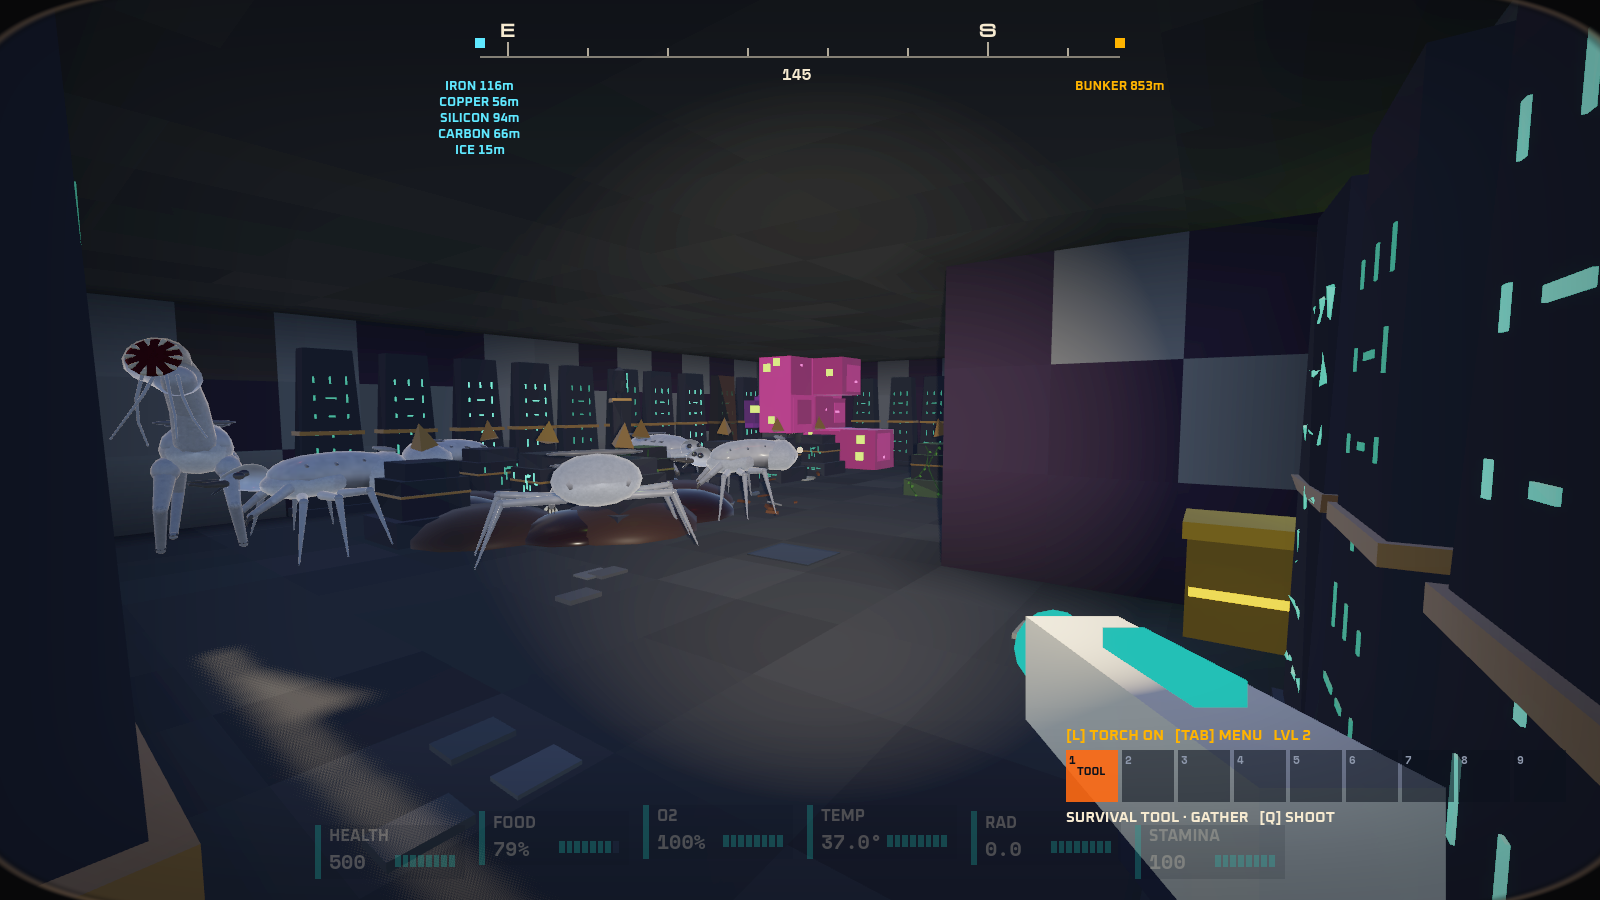
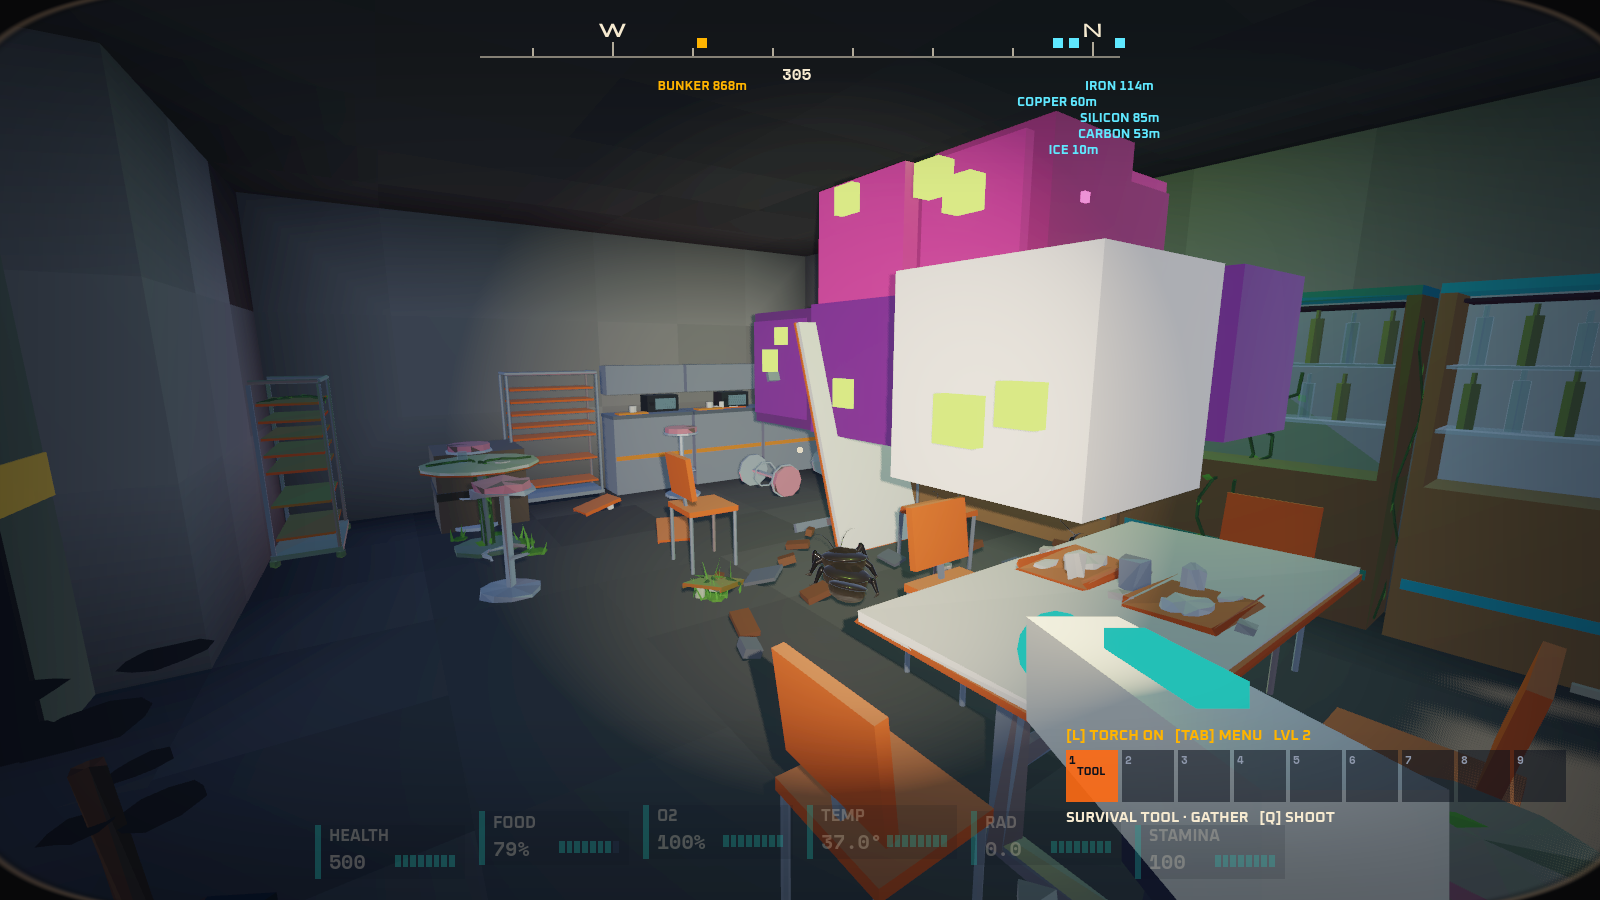
Place screenshots, the staged views, README: places, doors, creature bodies, towns

diff --git a/prototypes/slice/tests/Staging.Places.cs b/prototypes/slice/tests/Staging.Places.cs
@@ -60,7 +60,7 @@ public sealed partial class Staging
         PlaceRoom room = p.Memory.Rooms.Values.OrderByDescending(r => (r.Room.RoomId == want ? 1000 : 0) + r.Plan.Placements.Count - MathF.Abs(r.Corner.Y) * 2f).First();
         var size = new Vector3(room.Room.Width, 0f, room.Room.Depth);
         Vector3 corner = p.ToWorld(new Vector3(room.Corner.X, room.Corner.Y, room.Corner.Z));
-        return (room, corner + new Vector3(0.35f, 1.55f, 0.35f), corner + size * 0.75f + Vector3.Up * 0.6f);
+        return (room, corner + size + new Vector3(-0.5f, 1.55f, -0.5f), corner + size * 0.25f + Vector3.Up * 0.6f);
     }
 
     /// <summary>A dressed room, its age and state on it.</summary>
@@ -90,15 +90,24 @@ public sealed partial class Staging
         DeepSite deep = _game.Zone.Wildlife.Sites.First(s => s.Sim == p.Memory.Fauna.Sim);
         var nav = p.Nav();
         var open = nav.Reachable(p.Inst.Layout.EntranceCell);
-        var hunter = deep.Sim.Creatures.Where(c => !c.Dead && c.Species.Role == Wildlife.DeepRole.Ambusher && c.Species.Tells.Length > 0).OrderBy(c => c.Position.Y < -6f ? 1 : 0).First();
+        var hunter = deep.Sim.Creatures.Where(c => !c.Dead && c.Species.Role == Wildlife.DeepRole.Ambusher && c.Species.Tells.Length > 0)
+            .OrderBy(c => c.Position.DistanceTo(new Vector3(p.Inst.Layout.EntranceCell.X, p.Inst.Layout.EntranceCell.Y, p.Inst.Layout.EntranceCell.Z)) + Mathf.Abs(c.Position.Y) * 3f).First();
         var cell = new Int3(Mathf.FloorToInt(hunter.Position.X), Mathf.FloorToInt(hunter.Position.Y), Mathf.FloorToInt(hunter.Position.Z));
-        Int3 stand = open.Where(c => new Vector2(c.X - cell.X, c.Z - cell.Z).Length() is > 3f and < 7f && Mathf.Abs(c.Y - cell.Y) <= 3).OrderBy(c => Mathf.Abs(new Vector2(c.X - cell.X, c.Z - cell.Z).Length() - 4.5f)).First();
+        var space = _game.Zone.GetWorld3D().DirectSpaceState;
+        bool Sees(Int3 c)
+        {
+            Vector3 eye = PlaceWalk.Feet(p, c) + Vector3.Up * 1.6f, at = deep.World(hunter.Position) + Vector3.Up * 0.3f;
+            return space.IntersectRay(PhysicsRayQueryParameters3D.Create(eye, at, GalHack.Physics.Layers.World)).Count == 0;
+        }
+        Int3 stand = open.Where(c => new Vector2(c.X - cell.X, c.Z - cell.Z).Length() is > 2f and < 8f && Mathf.Abs(c.Y - cell.Y) <= 3)
+            .OrderBy(c => Sees(c) ? 0 : 1).ThenBy(c => Mathf.Abs(new Vector2(c.X - cell.X, c.Z - cell.Z).Length() - 3f)).First();
+        GD.Print($"hunter: a {hunter.Species.CommonName}, tells {string.Join(" ", hunter.Species.Tells)}, notice {hunter.Species.NoticeRadius:F0} m, at {cell}; standing at {stand}, sees it {Sees(stand)}");
         _game.Survivor.PlaceOutside(PlaceWalk.Feet(p, stand).ToNumerics());
         foreach (int x in _drive.Wait(30)) yield return x;
         _game.Torch.Visible = true;
         foreach (int x in _drive.LookAt(deep.World(hunter.Position) + Vector3.Up * 0.8f, 20)) yield return x;
         Wildlife.TellEvent? told = null;
-        deep.Told += e => { if (e.Target == deep.Player && e.Kind is Wildlife.TellKind.Dust or Wildlife.TellKind.Shadow or Wildlife.TellKind.Rattle or Wildlife.TellKind.Thump) told = e; };
+        deep.Told += e => { if (e.Target == deep.Player) told ??= e; };
         // STAGING: only this hunter wakes; the rest of the place is taken out of the shot.
         foreach (var c in deep.Sim.Creatures.Where(c => c != hunter)) deep.Sim.Remove(c);
         _game.Zone.Wildlife.Frozen = false;
@@ -108,11 +117,16 @@ public sealed partial class Staging
             yield return 0;
         }
         if (told is Wildlife.TellEvent t)
-            for (int i = 0; i < 16; i++)
+        {
+            GD.Print($"tell: {t.Kind} from a {t.Creature?.Species.CommonName}, {deep.World(t.Position).DistanceTo(_game.Survivor.WorldFeet):F1} m off");
+            Vector3 aim = t.Below.LengthSquared() > 0.01f ? (t.Position + t.Below) * 0.5f : t.Position;
+            for (int i = 0; i < 14; i++)
             {
-                _drive.Face(deep.World(t.Position));
+                _drive.Face(deep.World(aim));
                 yield return 0;
             }
+        }
+        else GD.Print("no tell came");
         _game.Zone.Wildlife.Frozen = true;
     }
 
@@ -143,8 +157,26 @@ public sealed partial class Staging
         foreach (int x in GoTo(site, Gate(site) + Vector3.Up * 0.1f)) yield return x;
         Place p = _game.Places.PlaceOf(site);
         foreach (int x in _drive.Wait(600)) yield return x;
-        Vector3 middle = p.ToWorld(new Vector3(p.Memory.Town.Data.AreaCenter.X, 1.2f, p.Memory.Town.Data.AreaCenter.Z));
-        foreach (int x in _drive.LookAt(middle, 20)) yield return x;
+        // A street with people on it: the one with most others near, seen from a few metres off along the way they stand.
+        var people = p.Memory.Town.People.Where(q => !q.Indoors && !q.Dead && !p.Roofed(p.ToWorld(q.Pos) + Vector3.Up * 0.1f)).ToList();
+        var busy = people.Where(q => p.Inst.Layout.Modules.Any(m => m.Kind == ModuleKind.Outdoor) || true).OrderByDescending(q => people.Count(o => o.Pos.DistanceTo(q.Pos) < 12f)).First();
+        Vector3 at = p.ToWorld(busy.Pos);
+        var space = _game.Zone.GetWorld3D().DirectSpaceState;
+        int Seen(Vector3 eye) => people.Count(o => space.IntersectRay(PhysicsRayQueryParameters3D.Create(eye, p.ToWorld(o.Pos) + Vector3.Up * 1.2f, GalHack.Physics.Layers.World | GalHack.Physics.Layers.Hull)).Count == 0 && p.ToWorld(o.Pos).DistanceTo(eye) < 30f);
+        Vector3 best = at + Vector3.Back * 6f;
+        int most = -1;
+        for (float r = 5f; r <= 15f; r += 2.5f)
+            for (int a = 0; a < 16; a++)
+            {
+                Vector3 c = at + new Vector3(MathF.Cos(a * MathF.Tau / 16f), 0f, MathF.Sin(a * MathF.Tau / 16f)) * r;
+                c.Y = _game.Zone.GroundAt(c.X, c.Z).Y + 1.65f;
+                int n = Seen(c);
+                if (n > most) { most = n; best = c; }
+            }
+        _game.Visor.Visible = false;
+        _game.FixedCamera = new Transform3D(Basis.LookingAt(at + Vector3.Up * 1.1f - best, Vector3.Up), best);
+        GD.Print($"seeing {most} of {people.Count} people");
+        foreach (int x in _drive.Wait(30)) yield return x;
     }
 
     /// <summary>Salvaging a wreck: the tool at work on its hull, a piece coming away.</summary>
@@ -153,7 +185,7 @@ public sealed partial class Staging
         _game.Zone.Sky.TimeOfDay = Num("time", 0.36);
         _game.Zone.Weather.Sim.Snap(WeatherKind.Clear);
         Vector3 from = _game.Survivor.WorldFeet;
-        PoiSite site = _game.Zone.Planet.Pois.Where(s => s.Family.Tier == PoiTier.Wreck).OrderBy(s => _game.Places.DistanceTo(s, from)).First();
+        PoiSite site = _game.Zone.Planet.Pois.Where(s => s.Family.Tier == PoiTier.Wreck || s.Family.Tags.Contains("wreck") || s.Family.Tags.Contains("ship") || s.Family.Id == "abandoned_spaceport").OrderBy(s => _game.Places.DistanceTo(s, from)).First();
         GD.Print($"salvaging {site.Name}");
         Vector3 gate = Gate(site);
         foreach (int x in GoTo(site, gate + Vector3.Up * 0.2f)) yield return x;

diff --git a/prototypes/slice/tests/PlaceTest.cs b/prototypes/slice/tests/PlaceTest.cs
@@ -524,38 +524,6 @@ public partial class PlaceTest : Node
         for (int t = 0; t < 3600 && _lastDown == null && !game.Suit.Dead; t++) yield return 0;
     }
 
-    /// <summary>Goes looking for the place's hunters: to the nearest ambusher or lurker's lair, a few times, until one gives itself away.</summary>
-    IEnumerable<int> SeekTell(Game.Game game, Place place, PlaceWalk walk)
-    {
-        DeepSite s = game.Zone.Wildlife.Sites.FirstOrDefault(q => q.Sim == place.Memory.Fauna?.Sim);
-        if (s == null) yield break;
-        var nav = place.Nav();
-        var tried = new HashSet<Wildlife.Creature>();
-        for (int tries = 0; tries < 6 && _aimedTells == 0 && !game.Suit.Dead; tries++)
-        {
-            Vector3 feet = game.Survivor.WorldFeet;
-            int here = walk.Here(place, nav).Y;
-            Wildlife.Creature hunter = s.Sim.Creatures
-                .Where(c => !c.Dead && !c.Removed && !tried.Contains(c) && c.Species.Role is Wildlife.DeepRole.Ambusher or Wildlife.DeepRole.Lurker && Mathf.Abs(c.Position.Y - here) < 5f)
-                .OrderBy(c => s.World(c.Position).DistanceTo(feet)).FirstOrDefault();
-            if (hunter == null) yield break;
-            tried.Add(hunter);
-            var cell = new PoiGenerator.Gen.Int3(Mathf.FloorToInt(hunter.Position.X), Mathf.FloorToInt(hunter.Position.Y), Mathf.FloorToInt(hunter.Position.Z));
-            PoiGenerator.Gen.Int3? near = null;
-            float best = float.MaxValue;
-            var reach = nav.Reachable(walk.Here(place, nav));
-            foreach (var c in reach)
-            {
-                float d = new Vector2(c.X - cell.X, c.Z - cell.Z).Length() + Mathf.Abs(c.Y - cell.Y) * 2f;
-                if (d < best && d > 2.5f) { best = d; near = c; }
-            }
-            if (near == null) continue;
-            GD.Print($"  (looking for it: a {hunter.Species.CommonName} ({hunter.Species.Role}) near {cell}, going to {near})");
-            bool ok = false;
-            foreach (int x in walk.To(place, near.Value, r => ok = r, () => _aimedTells > 0)) yield return x;
-            for (int t = 0; t < 600 && _aimedTells == 0 && !game.Suit.Dead; t++) yield return 0;
-        }
-    }
 
     float _nearestTell = float.MaxValue;
     readonly HashSet<DeepSite> _watchedSites = new();

diff --git a/prototypes/slice/README.md b/prototypes/slice/README.md
@@ -13,6 +13,13 @@ The first playable slice of GalHack's core loop, built from the proven prototype
 ![Night, the head torch on](screenshots/torch.png)
 ![A base built by hand: core, container, generator, small constructor, steel; the survival constructor beside it](screenshots/base.png)
 ![A small vessel built by hand on its core, lifting off](screenshots/vessel.png)
+![Walking up to the place in view](screenshots/poi-place.png)
+![A canteen dressed from the decorations library, the Bloom in the corner](screenshots/poi-interior.png)
+![The loot view on a vault cache](screenshots/poi-cache.png)
+![A creature's tell in a place](screenshots/poi-tell.png)
+![A hamlet's people about their day](screenshots/poi-town.png)
+![Salvaging a derelict's hull](screenshots/poi-salvage.png)
+![The chamber's numbered lockers](screenshots/bunker-lockers.png)
 
 Phase 1 is the ground loop. Orbit and boarding (phase 2) wait for the owner's go; saves across everything are phase 3.
 
@@ -182,7 +189,11 @@ Latest run: **ALL PASSED, 43 checks** in 38 s. Two fresh games roll different se
 
 ### The place test (`tests/PlaceTest.tscn`)
 
-PLACE_RESULTS
+With `--fixed-fps 60`. `-- --walk-only` runs just the visit, `-- --town-only` the settlement, `-- --survey` lists a world's places.
+
+- **Systems** (focus moved by hand, printed): a place stands up within the frame budget (47 chunks, worst frame about 4 ms of building, about 5 ms for its creature views), the far drawing gives way in the same frame; door blocks open as you come up, shut behind you, and E works them; creature capsules from the rig (a giant solid at chest height, a flyer shot, a head worth half as much again, a vessel knocking a small creature aside, worst tick 1.2 ms); the salvage hook; a cave found and filled, on a worker.
+- **The real-player visit** on seed 7 (no teleports, largest move in a tick 0.2 to 0.6 m, never rescued): out of the bunker with the kit, 900 m over the land round cave mouths to the deep bunker in view, down its stairs, a cache looted, a locked door refused, its keycard taken from its dead owner, the door opened, the Bloom cut through, the hidden panel broken, its stash looted, a dressing piece and a wall block salvaged, a hunter's tell met and the hunter shot, out again. Creatures are held still while the place is walked (printed), as PlayerTest does, and wake for the meeting: a nest on the lowest level would otherwise decide the run.
+- **A settlement** on seed 19: its people going about their day, walked through in peace, indoors at night, a shot turning it hostile, guards taking aim before they fire. The castaway is set down 55 m from its way in (printed): the 2 km land route there crosses a river and wasn't walked.
 
 ### The start test (`tests/StartTest.tscn`)
 
